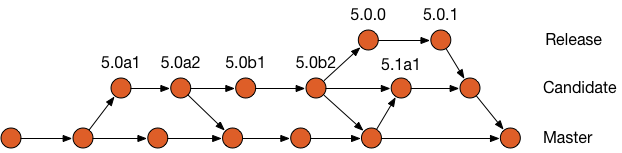
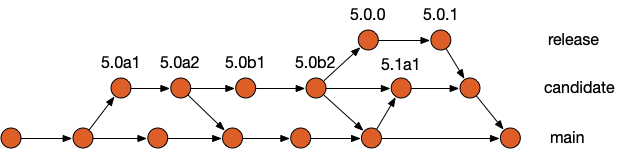
Change master branch to main branch in documentation

diff --git a/Technotes/BranchingStrategy.md b/Technotes/BranchingStrategy.md
@@ -5,7 +5,7 @@ The main repository for NetNewsWire utilizes a [Trunk Based Development](https:/
 
 ## Three-Flow
 
-Three-Flow uses 3 branches to facilitate development, stabilize a release, and manage production hotfixes.  Development happens on Master and moves to a branch called Candidate when it is ready to be stabilized.  New feature development continues on Master and bug fixes to the release candidate happen on Candidate.  When the product is released, it is pushed to the Release branch. Hotfixes can happen on the Release branch.  Candidate is now free to be reused to stabilize the next release.  All bugs found and fixed are back merged to Candidate and then Master respectively.
+Three-Flow uses 3 branches to facilitate development, stabilize a release, and manage production hotfixes.  Development happens on Main and moves to a branch called Candidate when it is ready to be stabilized.  New feature development continues on Main and bug fixes to the release candidate happen on Candidate.  When the product is released, it is pushed to the Release branch. Hotfixes can happen on the Release branch.  Candidate is now free to be reused to stabilize the next release.  All bugs found and fixed are back merged to Candidate and then Main respectively.
 
 ![Branching](Images/Branching.png)
 
@@ -15,9 +15,9 @@ That is Three-Flow applied to NetNewsWire.  It would be that simple, but we have
 
 ![Branching Full](Images/Branching-Full.png)
 
-Today (6/12/2019) we have 2 branches, master and macOS Candidate, in the main repository which will eventually grow to be 5 branches.
+Today (6/12/2019) we have 2 branches, main and macOS Candidate, in the main repository which will eventually grow to be 5 branches.
 
-There will also be a number of repository forks that NetNewWire developers will create to do bug fixes and implement new features (not shown here).  Typically contributers will fork the Master branch to thier own repository.  They would then create a feature/bugfix branch on their repository.  Once work on thier forked branch is complete, they will submit a pull request to be merged back into the main repository master.
+There will also be a number of repository forks that NetNewWire developers will create to do bug fixes and implement new features (not shown here).  Typically contributers will fork the Main branch to thier own repository.  They would then create a feature/bugfix branch on their repository.  Once work on thier forked branch is complete, they will submit a pull request to be merged back into the main repository main.
 
 ## Tagging
 
@@ -25,8 +25,8 @@ Each release should be tagged using [Semantic Versioning](https://semver.org/). 
 
 ## Submodules
 
-NetNewsWire uses Git submodules to manage project dependencies.  All the submodules are under the same project umbrella as NetNewWire and there are no third party dependencies to manage.  These submodules are mostly stable at this point.  For simplicity sake, all development on the submodules will continue on their repository Master branch.  These submodules won’t be managed as separate projects with separate releases/tags at this time.
+NetNewsWire uses Git submodules to manage project dependencies.  All the submodules are under the same project umbrella as NetNewWire and there are no third party dependencies to manage.  These submodules are mostly stable at this point.  For simplicity sake, all development on the submodules will continue on their repository Main branch.  These submodules won’t be managed as separate projects with separate releases/tags at this time.
 
 ## Summary
 
-There are 3 types of branches: Master, Candidate, and Release.  All feature development happens on Master.  Stabilization happens on Candidate.  Hotfixes happen on Release.  Each product gets its own Candidate and Release branches.  All candidates and releases get tagged.
+There are 3 types of branches: Main, Candidate, and Release.  All feature development happens on Main.  Stabilization happens on Candidate.  Hotfixes happen on Release.  Each product gets its own Candidate and Release branches.  All candidates and releases get tagged.
